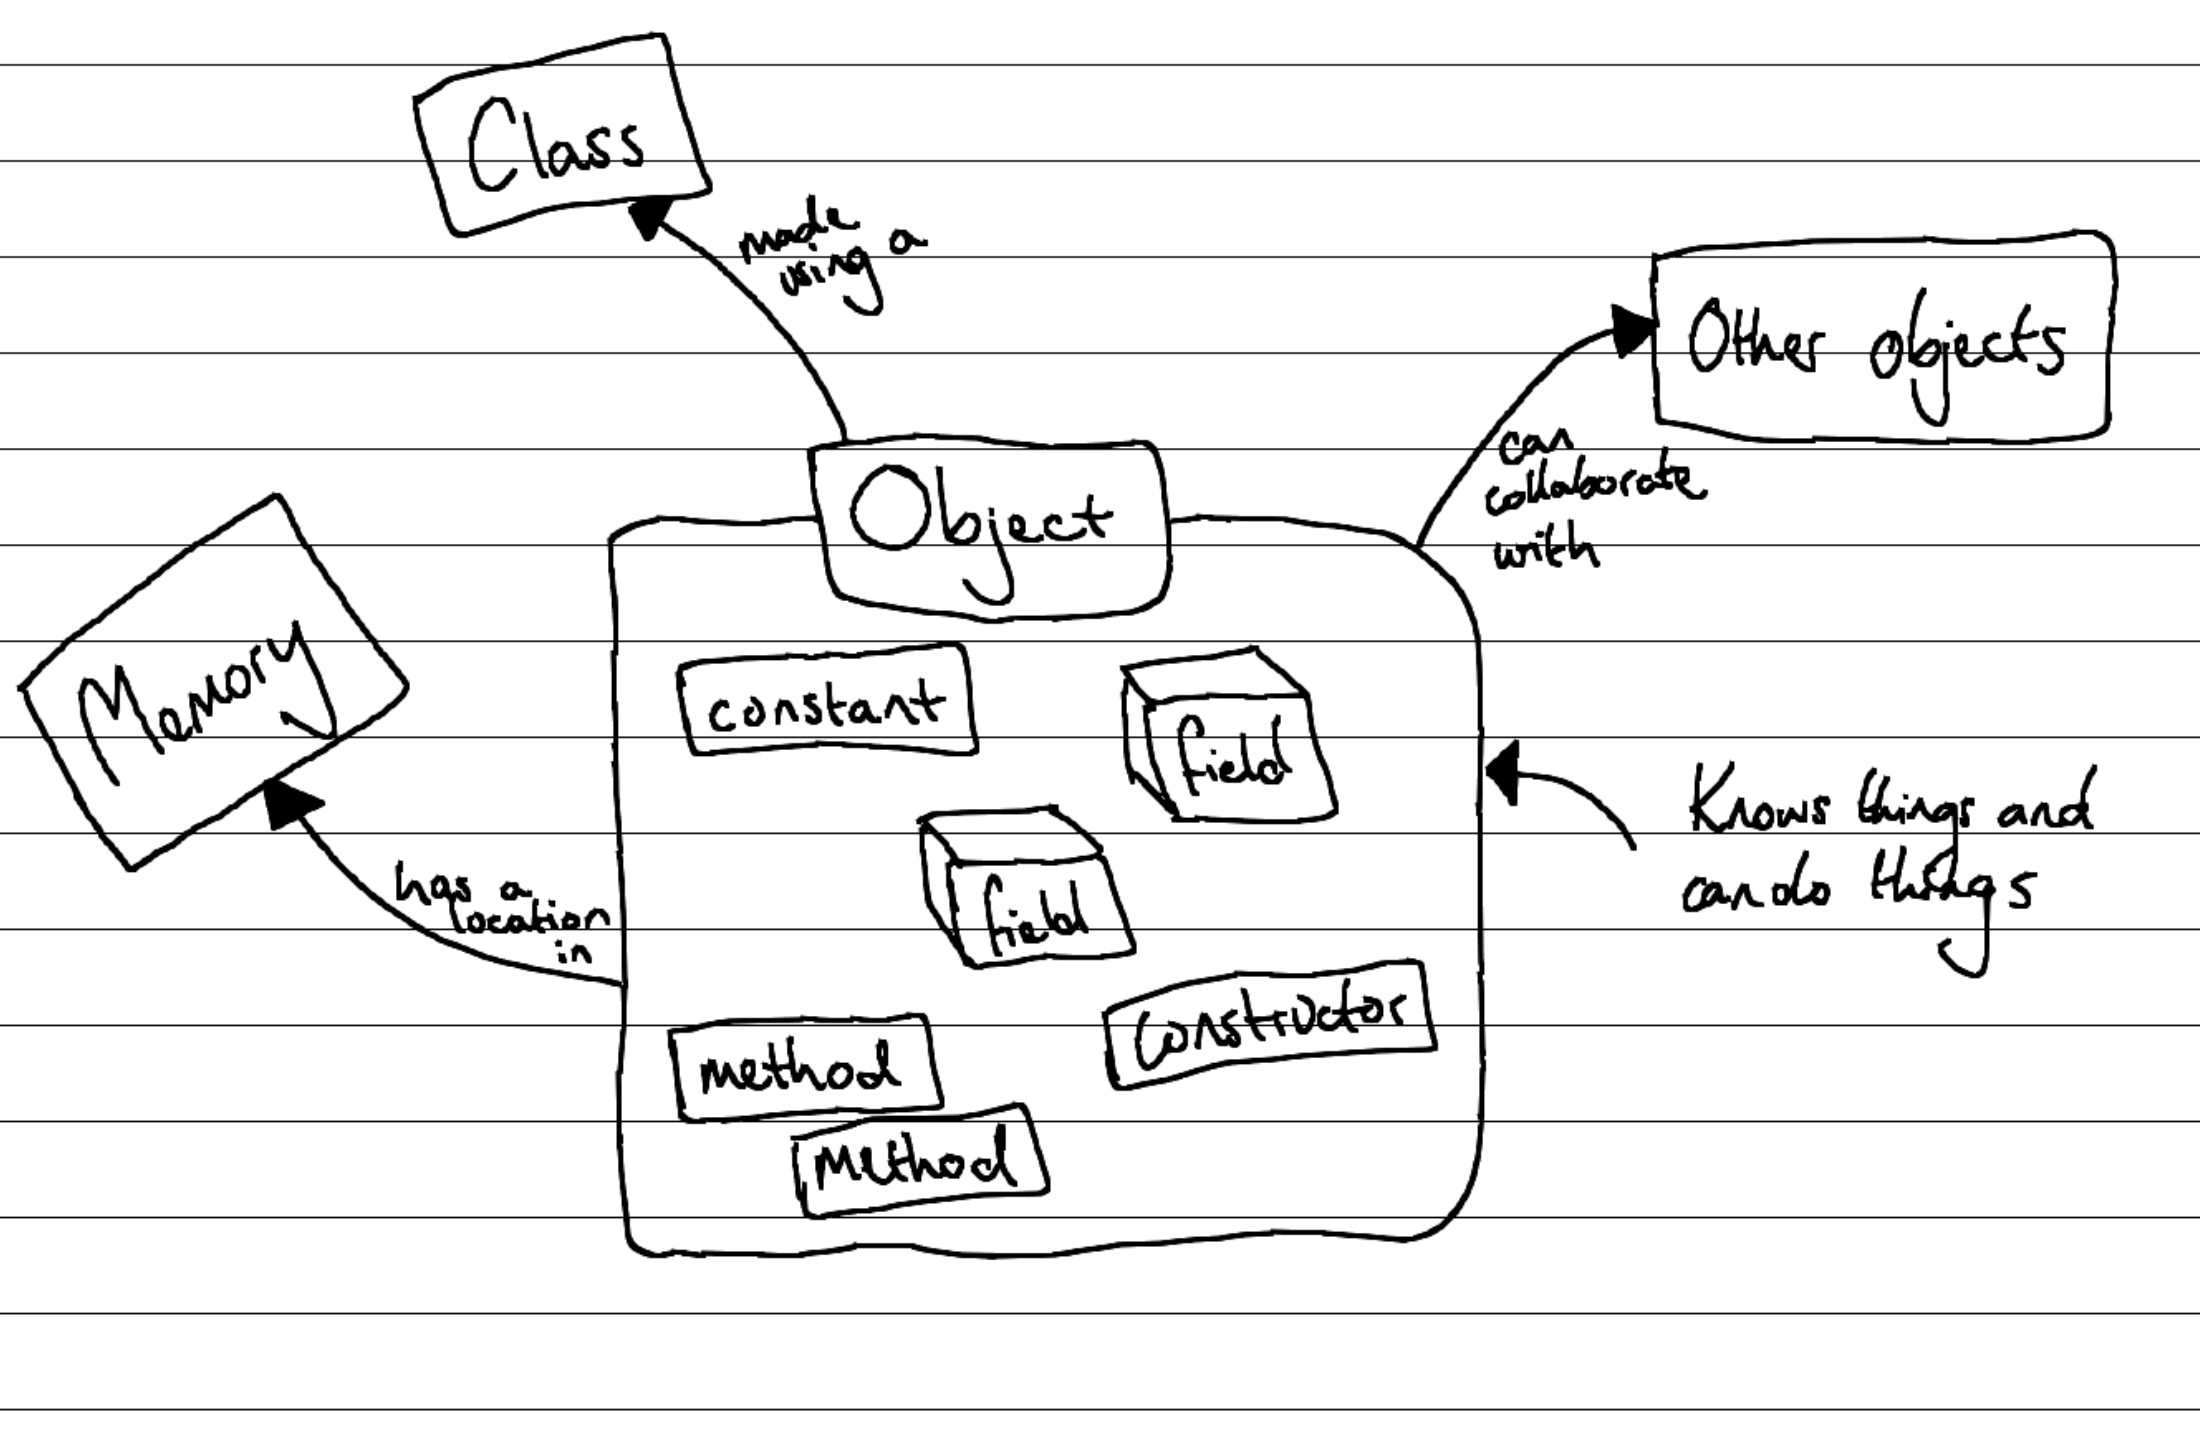
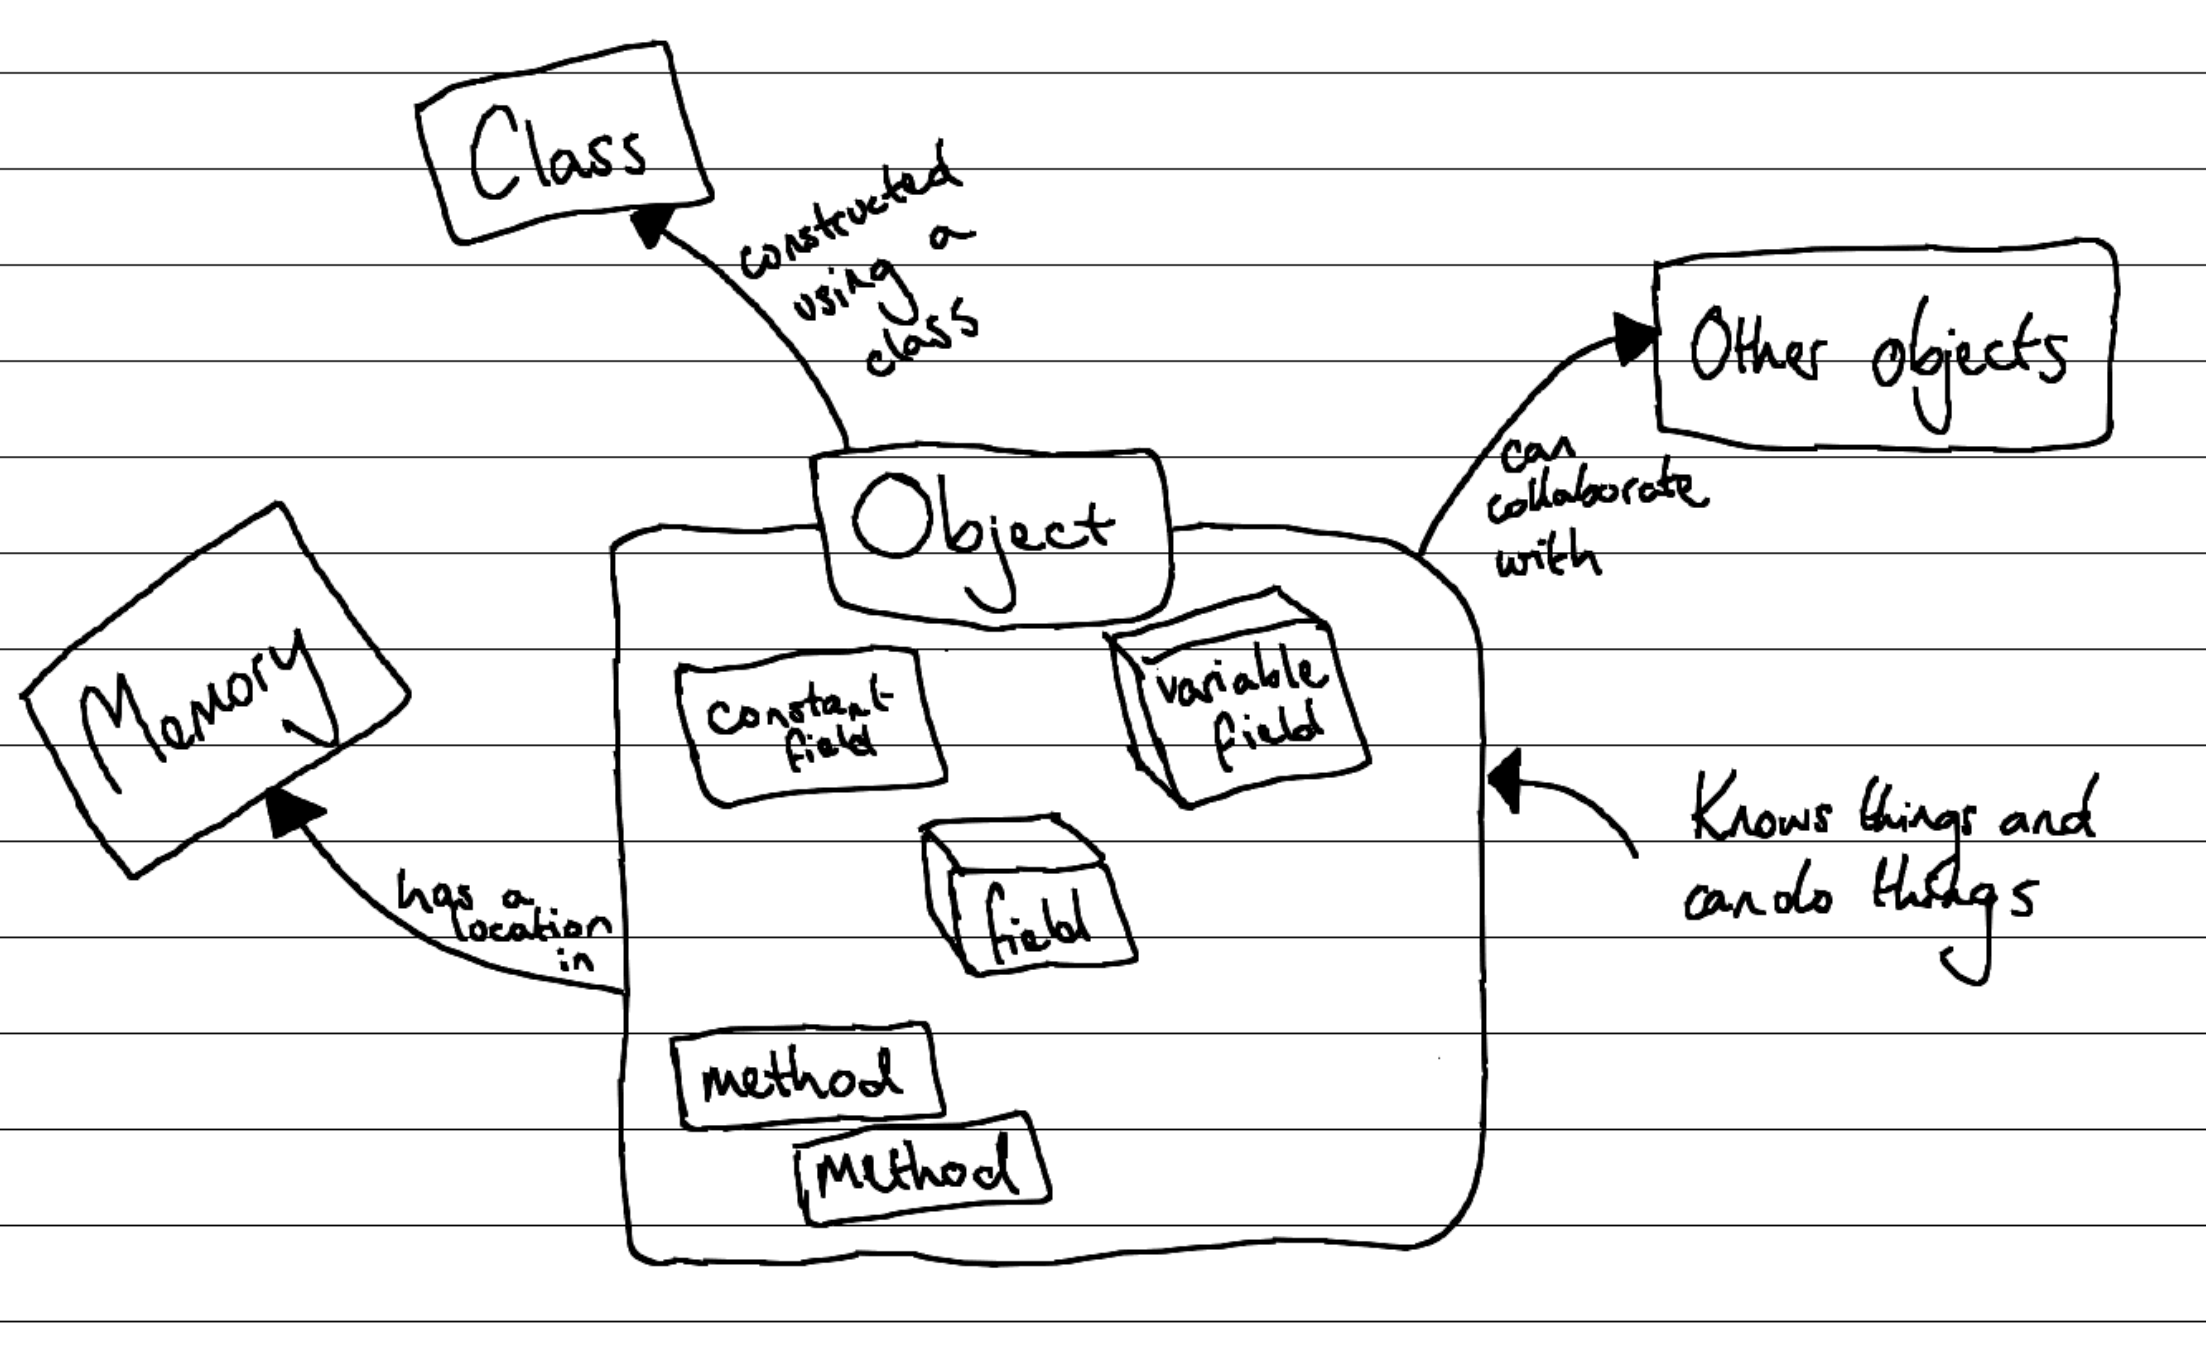
Draft into to object concept.

Changed region(s): [[0.0, 0.0, 1.0, 0.9897]]

diff --git a/src/content/docs/book/part-2-organised-code/9-classes-and-objects/1-concepts/1-objects.md b/src/content/docs/book/part-2-organised-code/9-classes-and-objects/1-concepts/1-objects.md
@@ -6,26 +6,34 @@ sidebar:
 
 ## What is an object?
 
-<!-- 
-* a class is just a description of something in terms of what it knows and does
-* an entity/object is when we use the class blueprint to create something in memory
-* this is an **instance** of a class
-* it's like the difference between a recipe and an actual cake, or a blueprint and an actual building
--->
+Classes are a powerful tool, but on their own they don't do much to help us create digital realities.
+This is because a class is just a *description* of a entity.
+We need to use that description as a blueprint to **construct** an **object**.
+
+Figure X shows a sketch of the **object** concept.
+Remember that a class describes a custom data type; an object is simply a **value** of that type.
+As with any other value in a program, an object has a location in memory.
+That memory is subdivided to make a space to store the value of each of the object's fields.
+These fields and their values are the **state** of the object.
 
 ![Figure X](./images/object-concept.png)
 <div class="caption"><span class="caption-figure-nbr">Figure X: </span>An object is an entity in memory that knows and can do things</div><br/>
+<!-- TODO: remake concept diagram properly -->
+
+Another term for an object is an **instance** of a class.
+This is because the process of constructing an object can also be called **instantiating** the object.
+Each instance of a class is a self-contained entity.
+What this means is that although we can create multiple objects from the same class, each object we create will have its own state.
+For example, if we had a "Person" class with a field "name", every instance of "Person" would have its own location in memory and its own "name" variable within that memory.
+
 
 <!--
-* if a class is a custom data type, an object is a value of that type
 * you can think of an object as a big blob of memory that contains values and functionality (it's not actually, but we can use this abstraction to help us think about it)
  -->
 
-<!-- 
-Each object created from a class blueprint is self-contained.
-What this means is that although we can create multiple different objects of the same type, each object has its own set of variables.
-For example, if we had a `Person` class with a field called `name`, every `Person` object would have its own `name` variable.
- -->
+## Creating objects
+
+
 
 ## Using an object
 <!--
